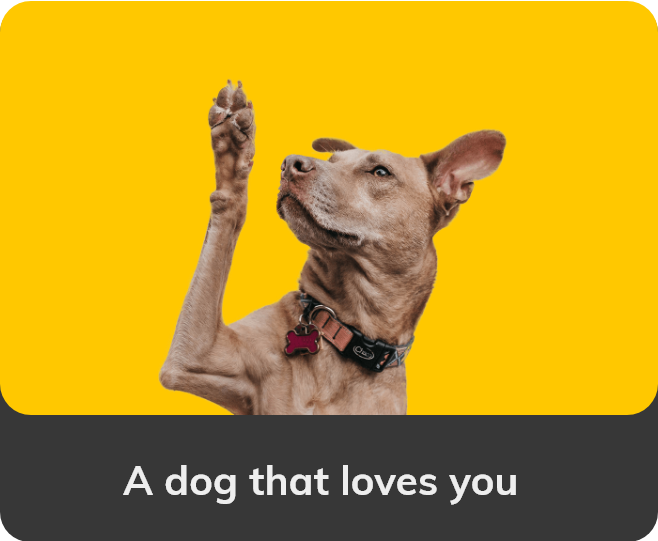
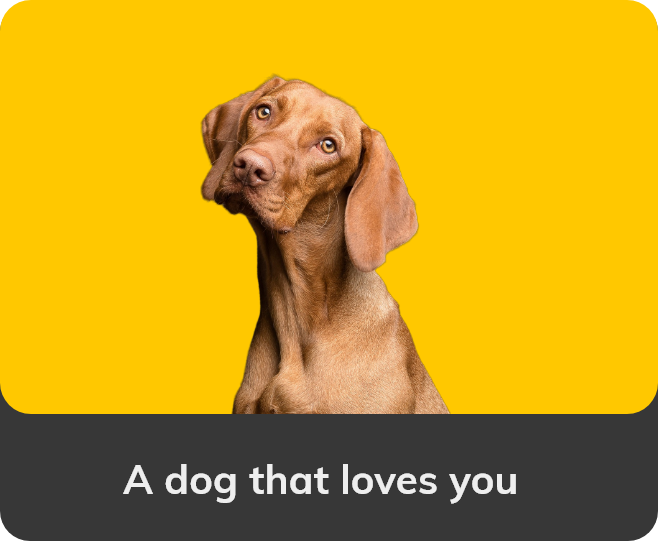
Changed the dog image on the home page

diff --git a/website/about.html b/website/about.html
@@ -48,7 +48,7 @@
                 <p>Petica is a pet suggestion website with the goal of finding your ideal pet. Many animals are stuck in
                     shelters and other temporary living situations, and much of this is due to the fact that people jump
                     into owning an animal before they fully understand the responsibility required to take care of one.
-                    We at UnExpectica are trying to teach and show people what animal will fit with their lifestyle the
+                    We at Petica are trying to teach and show people what animal will fit with their lifestyle the
                     best. Jump right in click on the pet suggester button and get started with your future companion
                     today!</p>
             </div>

diff --git a/website/index.html b/website/index.html
@@ -52,7 +52,7 @@
         </div>
         <div class="home-advice-cards">
             <img src="images/fish.png">
-            <img src="images/parrot.png">
+            <img src="images/bird.png">
         </div>
         <div class="home-advice-cards">
             <img src="images/rodent.png">

diff --git a/website/style.css b/website/style.css
@@ -420,7 +420,9 @@ iframe {
     justify-content: center;
     align-items: flex-start;
     flex-direction: column;
-    font-size: 22px;
+    font-family: var(--font-text);
+    font-size: 1.5rem;
+    text-align: justify;
     padding-left: 30px;
 }
 
